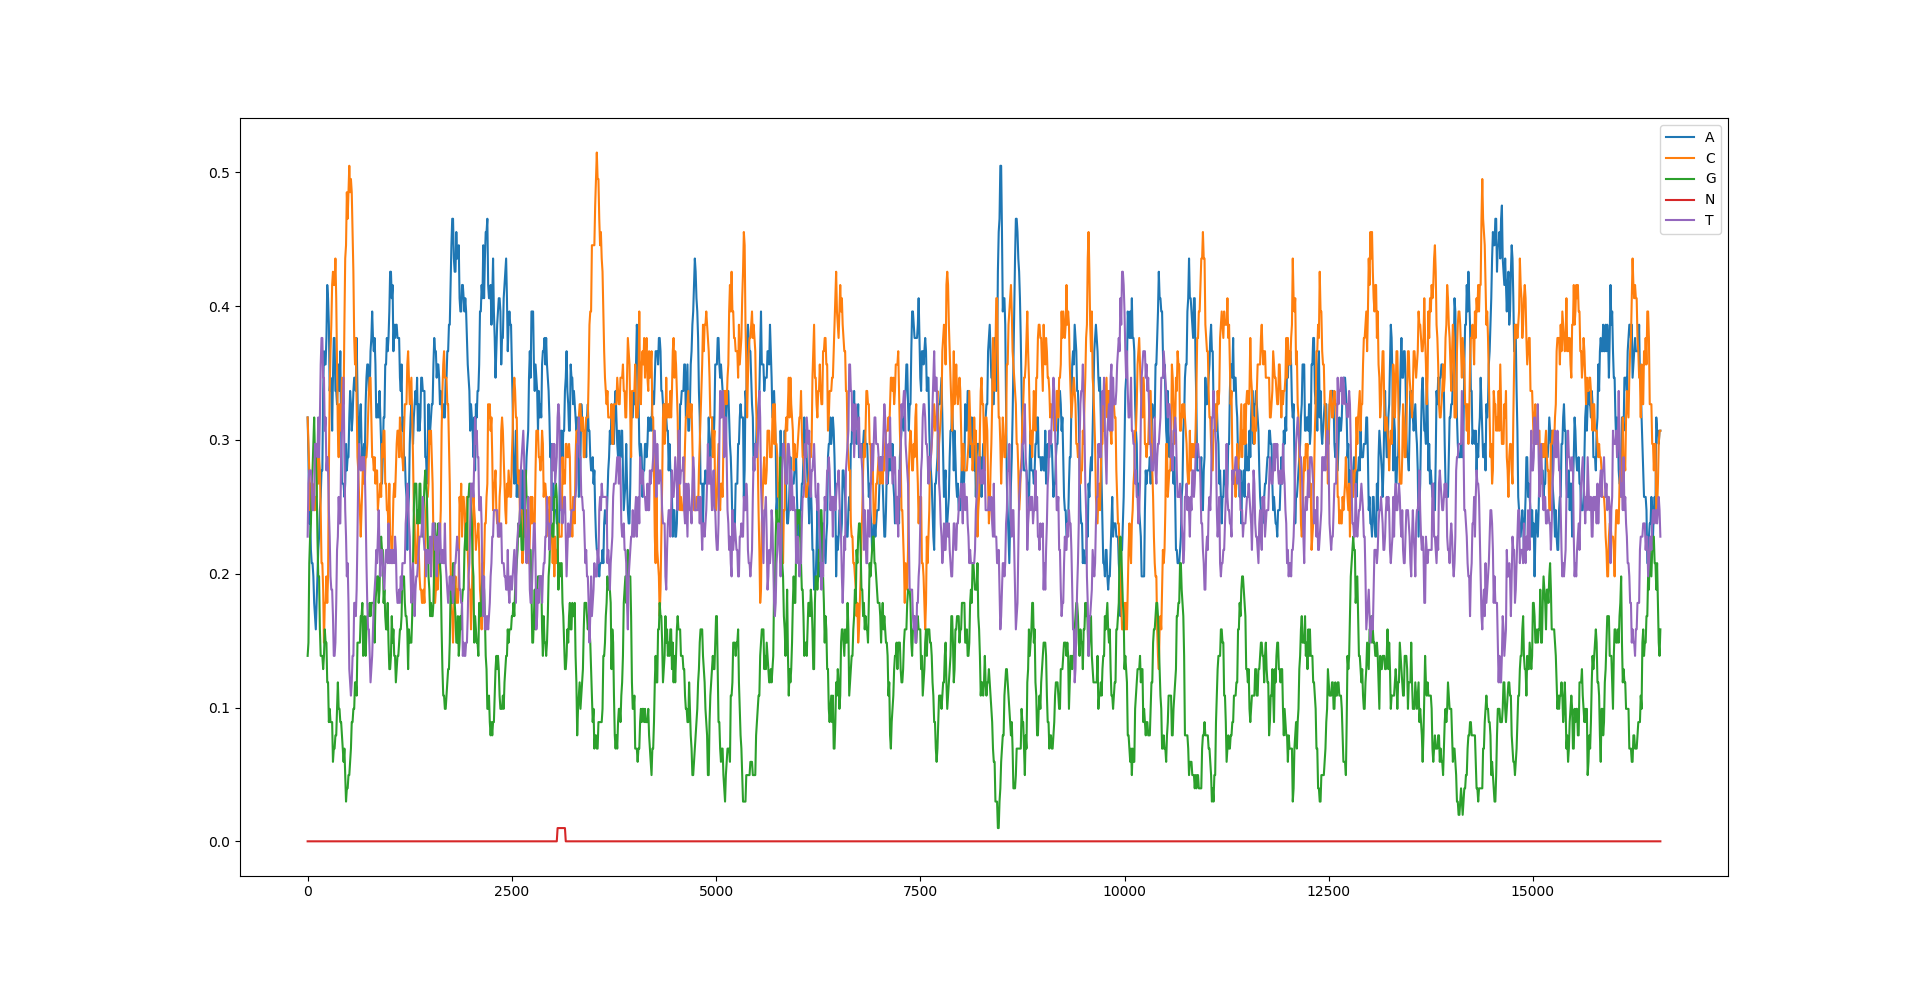
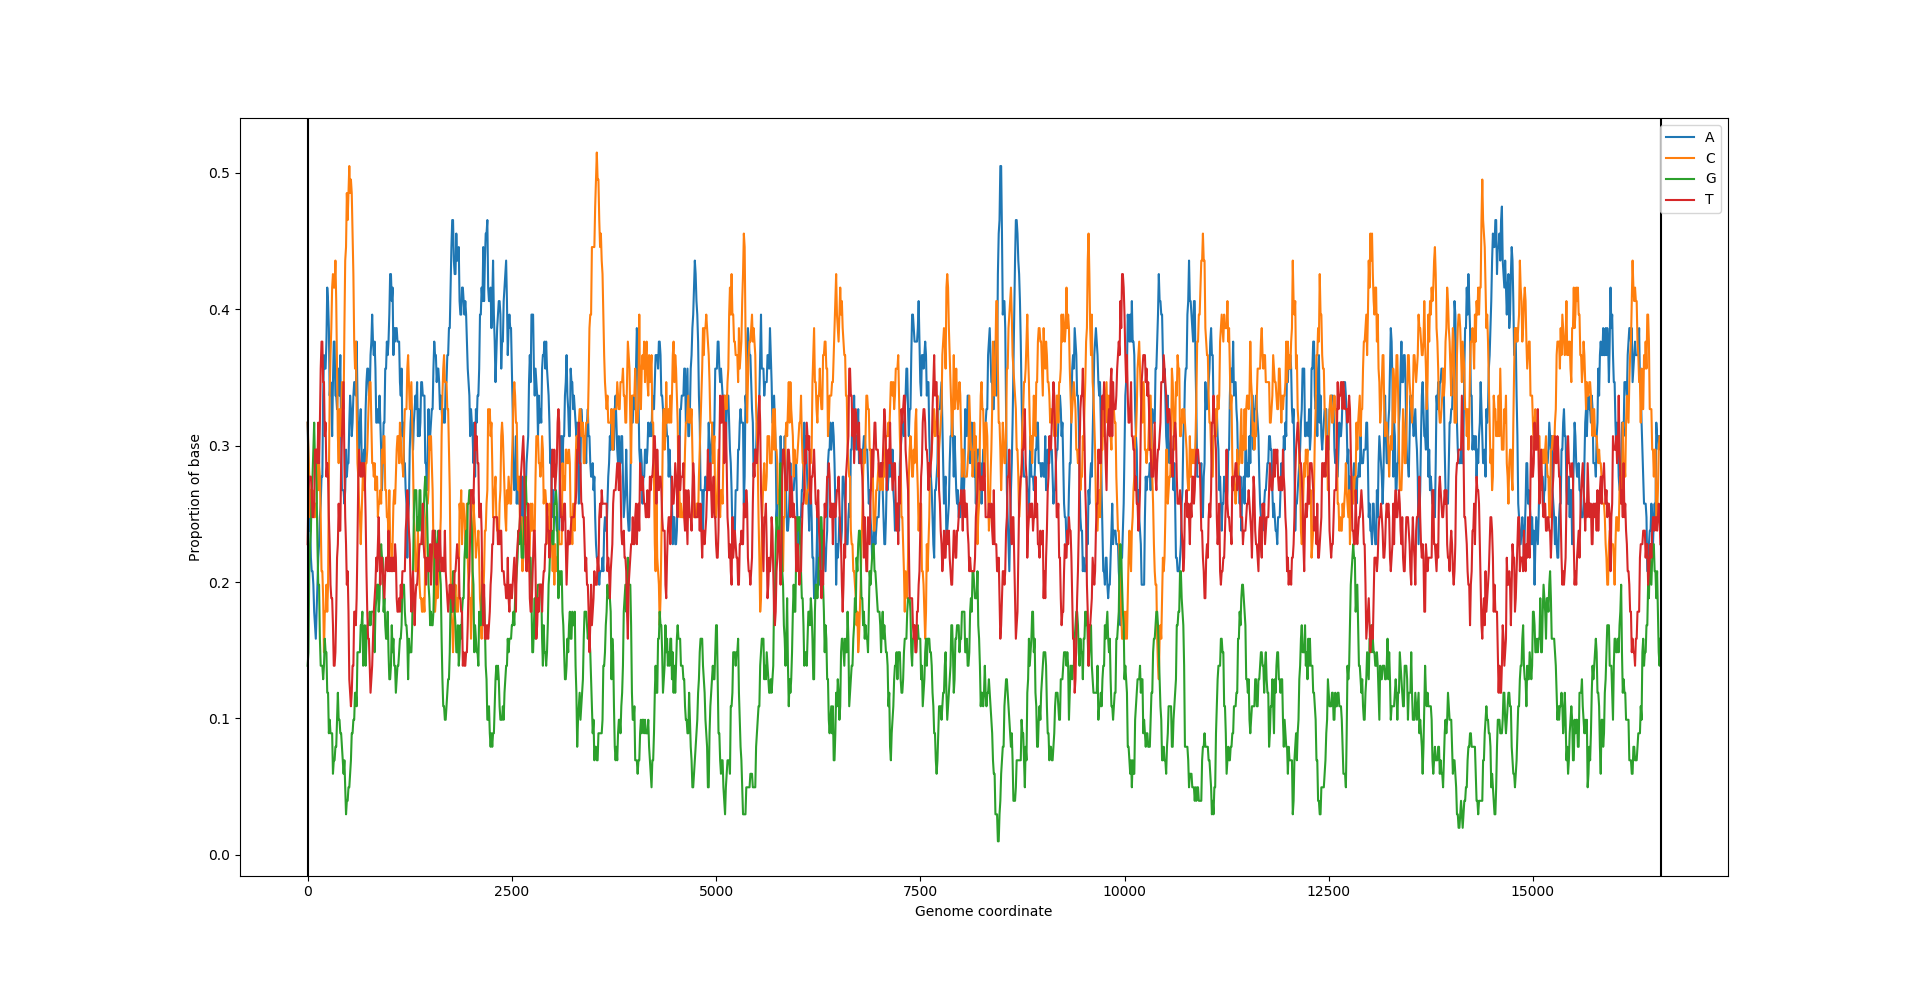
Updated the graphs with axis and removed the 'N' base

diff --git a/code/plot_mtDNA.py b/code/plot_mtDNA.py
@@ -17,6 +17,8 @@ def subSeq(centre,window,seq):
 def plot(genome, window, interval):
     #Plots a graph of each base and their frequency in each area of a genome
     bases = list(set(genome))
+    if "N" in bases:
+        del bases[bases.index("N")]
     bases.sort()
 
     fractions = [[subSeq(i*interval,window,genome).count(base)/(2*window + 1) for i in range((len(genome)//interval)+1)] for base in bases]
@@ -26,18 +28,19 @@ def plot(genome, window, interval):
     plt.axvline(x=0, color="k")
     plt.axvline(x=len(genome)-1, color="k")
     plt.legend(bases)
+    plt.xlabel("Genome coordinate")
+    plt.ylabel("Proportion of base")
     plt.show()
 
 path1="..\data\mtDNA.fa"
 path2="..\data\mtDNA_random.fa"
 
-file = open(path1,"r")
+file = open(path2,"r")
 lines = [l.rstrip() for l in file.readlines()]
 file.close()
-
 genome = "".join(lines[1:])
+
 plot(genome, 10, 1)
 plot(genome, 50, 10)
 plot(genome, 100, 50)
 plot(genome, 500, 10)
-
